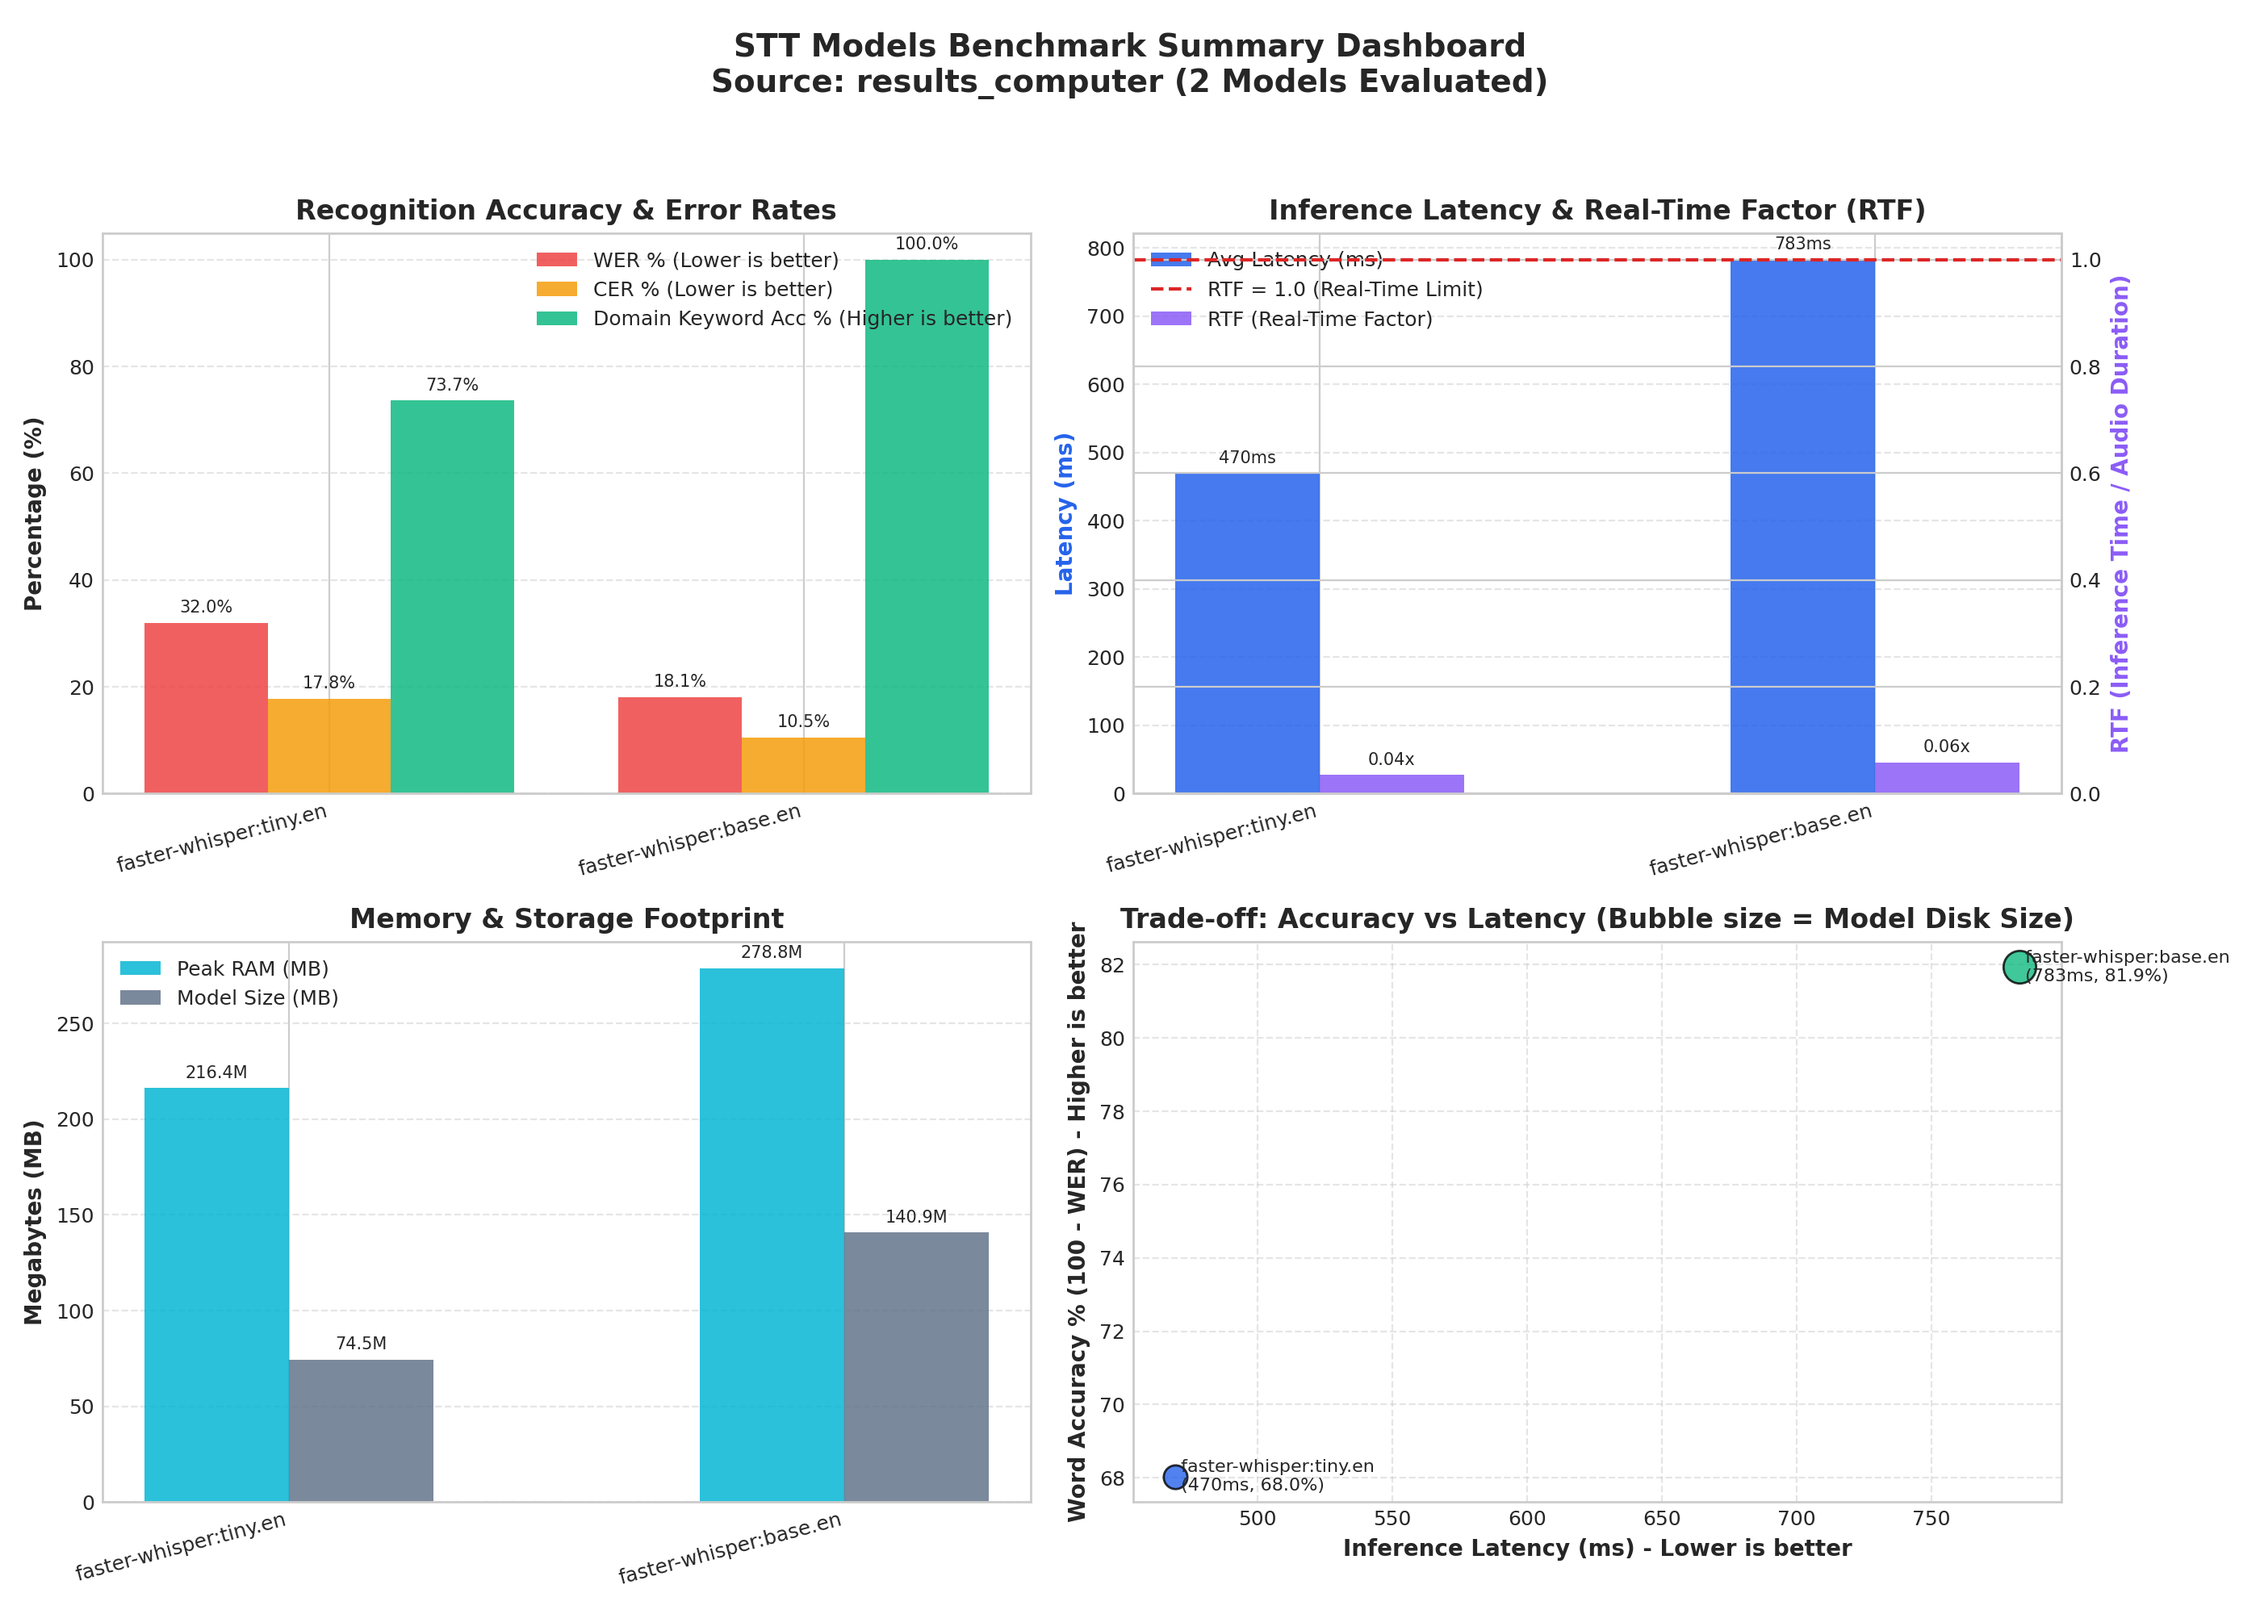
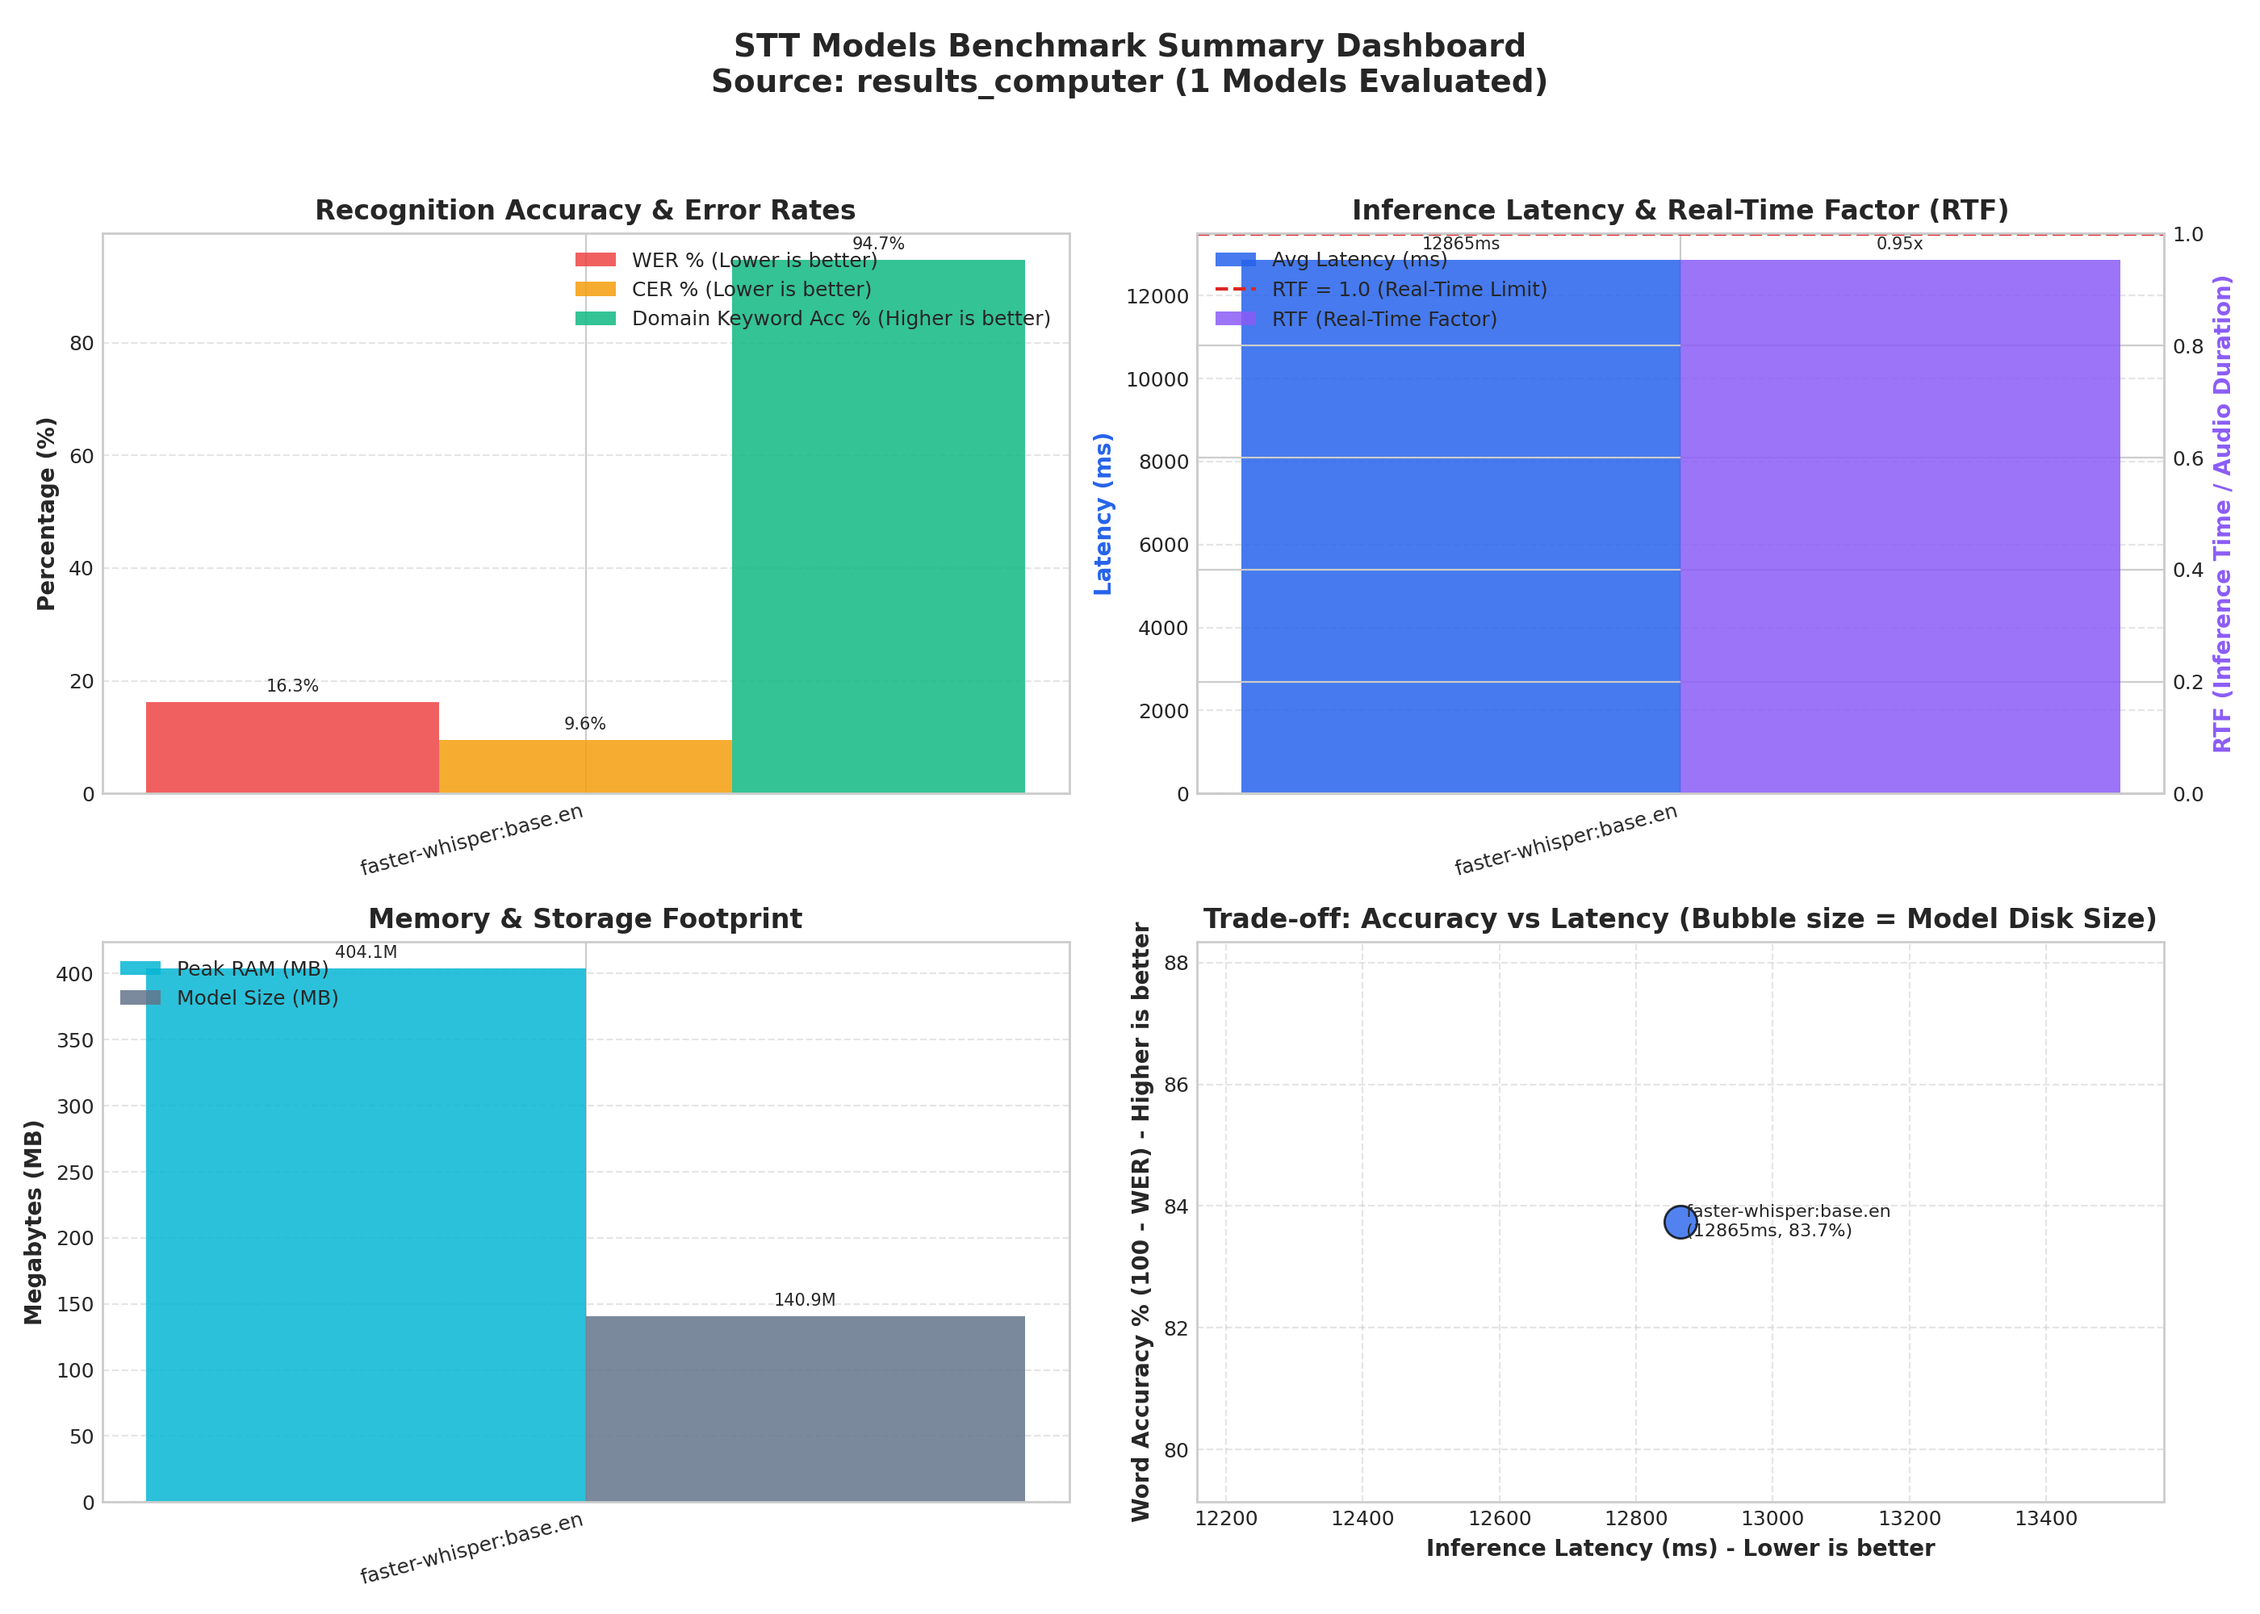
execute benchmark.py on arduino

diff --git a/python/results_computer/plots/evaluation_report.html b/python/results_computer/plots/evaluation_report.html
@@ -18,7 +18,7 @@
     <div class="container">
         <div class="header">
             <h1 style="margin:0 0 8px 0; color:#0F172A; font-size:24px;">STT Benchmark Model Evaluation Report</h1>
-            <p style="margin:0; color:#64748B; font-size:14px;">Source: <strong>C:\Users\lucia\Desktop\hackestiu\stt-benchmark\python\results_computer</strong> | Platform: <strong>Linux-7.0.0-g122c2c22d838-aarch64-with-glibc2.41</strong> | Tested Models: <strong>2</strong></p>
+            <p style="margin:0; color:#64748B; font-size:14px;">Source: <strong>/home/arduino/stt-benchmark/python/results_computer</strong> | Platform: <strong>Linux-7.0.0-g122c2c22d838-aarch64-with-glibc2.41</strong> | Tested Models: <strong>1</strong></p>
         </div>
 
         
@@ -26,10 +26,10 @@
             <h3 style="margin:0 0 6px 0; color:#1D4ED8; font-size:16px;">Recommendation for Arduino UNO Q Deployment</h3>
             <p style="margin:0; color:#1E40AF; font-size:14px;">
                 <strong>faster-whisper:base.en</strong> achieves the most balanced edge profile: 
-                <strong>18.1% WER</strong>, 
-                <strong>783 ms latency</strong> 
-                (0.06x RTF), 
-                and <strong>279 MB peak RAM</strong>.
+                <strong>16.3% WER</strong>, 
+                <strong>12865 ms latency</strong> 
+                (0.95x RTF), 
+                and <strong>404 MB peak RAM</strong>.
             </p>
         </div>
         
@@ -57,26 +57,13 @@
         <tr style="border-bottom:1px solid #E2E8F0; background:#F0FDF4;">
             <td style="padding:10px 14px; text-align:center; font-weight:bold;">#1</td>
             <td style="padding:10px 14px; font-weight:bold; color:#1E293B;">faster-whisper:base.en</td>
-            <td style="padding:10px 14px; text-align:right; font-weight:bold; color:#16A34A;">18.1%</td>
-            <td style="padding:10px 14px; text-align:right;">10.5%</td>
-            <td style="padding:10px 14px; text-align:right;">100.0%</td>
-            <td style="padding:10px 14px; text-align:right; font-weight:bold;">783 ms</td>
-            <td style="padding:10px 14px; text-align:center;">0.058x (<span style="color:#059669;font-weight:bold;">Real-Time</span>)</td>
-            <td style="padding:10px 14px; text-align:right;">278.8 MB</td>
+            <td style="padding:10px 14px; text-align:right; font-weight:bold; color:#16A34A;">16.3%</td>
+            <td style="padding:10px 14px; text-align:right;">9.6%</td>
+            <td style="padding:10px 14px; text-align:right;">94.7%</td>
+            <td style="padding:10px 14px; text-align:right; font-weight:bold;">12865 ms</td>
+            <td style="padding:10px 14px; text-align:center;">0.954x (<span style="color:#059669;font-weight:bold;">Real-Time</span>)</td>
+            <td style="padding:10px 14px; text-align:right;">404.1 MB</td>
             <td style="padding:10px 14px; text-align:right;">140.9 MB</td>
-            <td style="padding:10px 14px; text-align:center;"><span style="color:#2563EB;font-weight:600;">Yes</span></td>
-        </tr>
-        
-        <tr style="border-bottom:1px solid #E2E8F0; ">
-            <td style="padding:10px 14px; text-align:center; font-weight:bold;">#2</td>
-            <td style="padding:10px 14px; font-weight:bold; color:#1E293B;">faster-whisper:tiny.en</td>
-            <td style="padding:10px 14px; text-align:right; font-weight:bold; color:#DC2626;">32.0%</td>
-            <td style="padding:10px 14px; text-align:right;">17.8%</td>
-            <td style="padding:10px 14px; text-align:right;">73.7%</td>
-            <td style="padding:10px 14px; text-align:right; font-weight:bold;">470 ms</td>
-            <td style="padding:10px 14px; text-align:center;">0.035x (<span style="color:#059669;font-weight:bold;">Real-Time</span>)</td>
-            <td style="padding:10px 14px; text-align:right;">216.4 MB</td>
-            <td style="padding:10px 14px; text-align:right;">74.5 MB</td>
             <td style="padding:10px 14px; text-align:center;"><span style="color:#2563EB;font-weight:600;">Yes</span></td>
         </tr>
         
